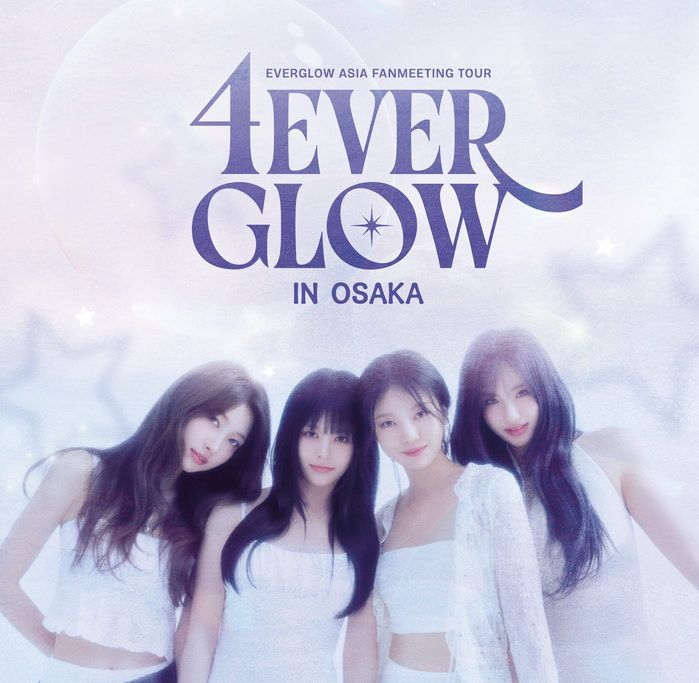
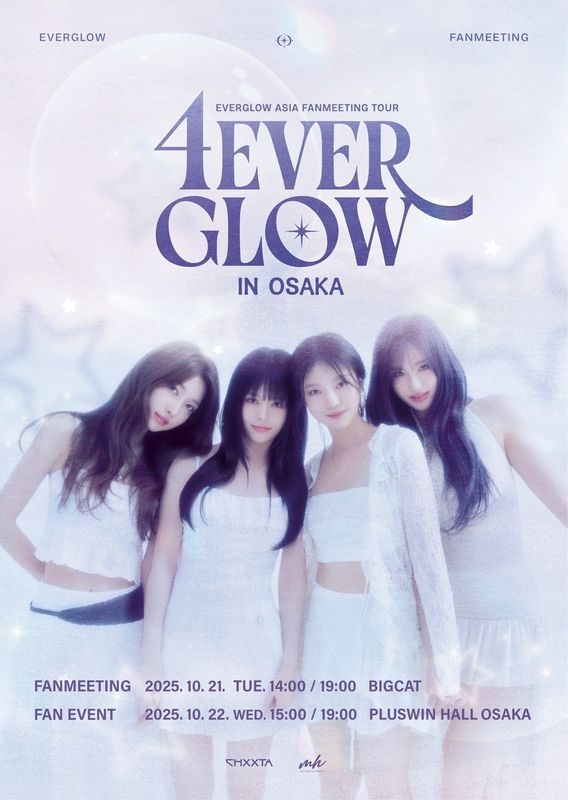
아카이브: JINHO Dear. you·EVERGLOW 포스터 교체 및 날짜·장소 보정, EASTSHINE 2025 SPECIAL LIVE OSAKA 추가; ?v=20261128q
Claude-Session: https://claude.ai/code/session_01APSZDhuEs73eRN2Z5RkWZx

diff --git a/assets/js/data.js b/assets/js/data.js
@@ -1022,7 +1022,7 @@ const PAST = [
   { key: "cho-byeong-kyu", artist: "CHO BYEONG KYU", title: "JAPAN FAN MEETING -Welcome to CAFÉ BK-", date: "2026.07.18 - 19", sort: "2026-07-18", year: "2026", venue: "PLUSWIN HALL OSAKA", poster: "assets/img/past/cho-byeong-kyu.jpg", url: "https://www.pluswin.net/news-1-1/chobyeongkyu-event" },
   { key: "zelo", artist: "ZELO", title: "FANCONCERT [COMIGO:NEXT CHAPTER] in Japan", date: "2026.07.04 - 05", sort: "2026-07-04", year: "2026", venue: "TIAT SKY HALL", poster: "assets/img/past/zelo.jpg", url: "https://www.pluswin.net/news-1-1/zelo" },
   { key: "wooseung", artist: "WOOSEUNG", title: "1st Fanmeeting in Osaka [MAY BE]", date: "2026.05.08 - 10", sort: "2026-05-08", year: "2026", venue: "PLUSWIN HALL OSAKA", poster: "assets/img/past/wooseung.jpg", url: "https://www.pluswin.net/news-1-1/wooseung" },
-  { key: "jinho-dear-you", artist: "JINHO", title: "FAN CONCERT 'Dear. you' in JAPAN", date: "2026.04.25 - 05.01", sort: "2026-04-25", year: "2026", venue: "PLUSWIN HALL OSAKA", poster: "assets/img/past/jinho-dear-you.jpg", url: "https://www.pluswin.net/news-1-1/jinho20260405" },
+  { key: "jinho-dear-you", artist: "JINHO", title: "FAN CONCERT 'Dear. you' in JAPAN", date: "2026.04.25 - 05.02", sort: "2026-04-25", year: "2026", venue: "TOKYO / OSAKA", poster: "assets/img/past/jinho-dear-you.jpg", url: "https://www.pluswin.net/news-1-1/jinho20260405" },
   { key: "lee-jinsol", artist: "LEE JINSOL", title: "'from. Sagittarius' RELEASE LIVE in JAPAN", date: "2026.04.22 - 26", sort: "2026-04-22", year: "2026", venue: "PLUSWIN HALL OSAKA", poster: "assets/img/past/lee-jinsol.jpg", url: "https://www.pluswin.net/news-1-1/jinsol" },
   { key: "klovers-2026-spring", series: "klovers", artist: "K-LOVERS FES", title: "2026 SPRING", date: "2026.04.18 - 19", sort: "2026-04-18", year: "2026", venue: "TEMPO HARBOR THEATER", poster: "assets/img/past/klovers-2026-spring.jpg", url: "https://www.pluswin.net/news-1-1/kloversfes" },
   { key: "eastshine", artist: "EASTSHINE", title: "JAPAN LIVE 2026", date: "2026.04.17 - 05.06", sort: "2026-04-17", year: "2026", venue: "OSAKA / TOKYO", poster: "assets/img/past/eastshine.jpg", url: "https://www.pluswin.net/news-1-1/eastshine-tour" },
@@ -1033,7 +1033,7 @@ const PAST = [
   { key: "hayeon", artist: "HAYEON", title: "The First Bloom in Osaka 2025", date: "2025.12.12 - 21", sort: "2025-12-12", year: "2025", venue: "PLUSWIN HALL OSAKA / VILLEBOA", poster: "assets/img/past/hayeon.jpg", url: "https://www.pluswin.net/news-1-1/hayeon-japanlive" },
   { key: "lim-seul-ong", artist: "LIM SEUL-ONG", title: "SOLO Fan Concert 'ONGBOARDING'", date: "2025.12.01 - 12.06", sort: "2025-12-01", year: "2025", venue: "TOKYO / OSAKA", poster: "assets/img/past/lim-seul-ong.jpg", url: "https://www.pluswin.net/news-1-1/ongboarding" },
   { key: "xin", artist: "X:IN", title: "JAPAN 1st SHOWCASE 2025 'READY X:IN'", date: "2025.10.25 - 29", sort: "2025-10-25", year: "2025", venue: "TOKYO / OSAKA", poster: "assets/img/past/xin.jpg", url: "https://www.pluswin.net/news-1-1/xin-event" },
-  { key: "everglow", artist: "EVERGLOW", title: "ASIA FANMEETING TOUR: 4EVERGLOW IN OSAKA", date: "2025.10.21 - 22", sort: "2025-10-21", year: "2025", venue: "BIGCAT", poster: "assets/img/past/everglow.jpg", url: "https://www.pluswin.net/news-1-1/everglow-osaka2025" },
+  { key: "everglow", artist: "EVERGLOW", title: "ASIA FANMEETING TOUR: 4EVERGLOW IN OSAKA", date: "2025.10.21 - 22", sort: "2025-10-21", year: "2025", venue: "BIGCAT / PLUSWIN HALL OSAKA", poster: "assets/img/past/everglow.jpg", url: "https://www.pluswin.net/news-1-1/everglow-osaka2025" },
   { key: "2face-tour", artist: "2FACE", title: "LIVE TOUR 2025 ~LOVE TONIGHT~", date: "2025.09.14 - 15", sort: "2025-09-14", year: "2025", venue: "PLUSWIN HALL OSAKA", poster: "assets/img/past/2face-tour.jpg", url: "https://www.pluswin.net/news-1-1/2face-202504" },
   { key: "unicode-aing", artist: "UNICODE", title: "LIVE TOUR 2025 'Aing'", date: "2025.09.07 - 26", sort: "2025-09-07", year: "2025", venue: "OSAKA", poster: "assets/img/past/unicode-aing.jpg", url: "https://www.pluswin.net/news-1-1/unicode-event" },
   { key: "crazangel", artist: "CRAZANGEL", title: "JAPAN PRE-DEBUT SHOWCASE", date: "2025.08.30", sort: "2025-08-30", year: "2025", venue: "PLUSWIN HALL OSAKA", poster: "assets/img/past/crazangel.jpg", url: "https://www.pluswin.net/news-1-1/2025-crazangel-japanlive" },
@@ -1092,6 +1092,7 @@ const PAST = [
   { key: "kim-kwon-2026", artist: "KIM KWON", title: "TOKYO TAKE 2", date: "2026.11.21", sort: "2026-11-21", year: "2026", venue: "GE theater HARAJUKU", poster: "assets/img/past/kim-kwon-2026.jpg" },
   { key: "riri-2025", artist: "RiRi", title: "FANMEETING IN OSAKA READY!", date: "2025.12.27 - 28", sort: "2025-12-27", year: "2025", venue: "OSAKA", poster: "assets/img/past/riri-2025.jpg" },
   { key: "3way-2024", artist: "3WAY", title: "F1RST '3WAY PROJECT' in JAPAN", date: "2024.03.23", sort: "2024-03-23", year: "2024", venue: "PLUSWIN HALL MINAMIHORIE", poster: "assets/img/past/3way-2024.jpg" },
+  { key: "eastshine-2025", artist: "EASTSHINE", title: "2025 SPECIAL LIVE OSAKA", date: "2025.08.29 - 09.07", sort: "2025-08-29", year: "2025", venue: "PLUSWIN HALL VILLEBOA / MINAMIHORIE", poster: "assets/img/past/eastshine-2025.jpg" },
 ];
 
 const GUIDES = [

diff --git a/index.html b/index.html
@@ -26,8 +26,8 @@ gtag("js",new Date());gtag("config","G-80L7MBMH2J");</script>
 <meta property="og:image" content="https://hkw8102.github.io/-/assets/img/hall/stage-full.jpg">
 <link rel="icon" href="assets/favicon.png" sizes="64x64" type="image/png">
 <link rel="apple-touch-icon" href="assets/favicon-180.png">
-<link rel="preload" as="image" href="assets/img/hall/audience-live.jpg?v=20261128p">
-<link rel="stylesheet" href="styles.css?v=20261128p">
+<link rel="preload" as="image" href="assets/img/hall/audience-live.jpg?v=20261128q">
+<link rel="stylesheet" href="styles.css?v=20261128q">
 </head>
 <body data-page="home">
 <div class="grain" aria-hidden="true"></div>
@@ -75,7 +75,7 @@ gtag("js",new Date());gtag("config","G-80L7MBMH2J");</script>
   <!-- ============ HERO ============ -->
   <section class="hero hero-compact">
     <div class="hero-bg" aria-hidden="true">
-      <img src="assets/img/hall/audience-live.jpg?v=20261128p" alt="" fetchpriority="high">
+      <img src="assets/img/hall/audience-live.jpg?v=20261128q" alt="" fetchpriority="high">
     </div>
     <div class="hero-veil" aria-hidden="true"></div>
     <div class="wrap hero-inner">
@@ -347,10 +347,10 @@ gtag("js",new Date());gtag("config","G-80L7MBMH2J");</script>
   </aside>
 </div>
 
-<script src="assets/js/analytics.js?v=20261128p"></script>
-<script src="assets/js/theme.js?v=20261128p"></script>
-<script src="assets/js/data.js?v=20261128p"></script>
-<script src="assets/js/i18n-extra.js?v=20261128p"></script>
-<script src="assets/js/site.js?v=20261128p"></script>
+<script src="assets/js/analytics.js?v=20261128q"></script>
+<script src="assets/js/theme.js?v=20261128q"></script>
+<script src="assets/js/data.js?v=20261128q"></script>
+<script src="assets/js/i18n-extra.js?v=20261128q"></script>
+<script src="assets/js/site.js?v=20261128q"></script>
 </body>
 </html>

diff --git a/hall.html b/hall.html
@@ -26,8 +26,8 @@ gtag("js",new Date());gtag("config","G-80L7MBMH2J");</script>
 <meta property="og:image" content="https://hkw8102.github.io/-/assets/img/hall/stage-full.jpg">
 <link rel="icon" href="assets/favicon.png" sizes="64x64" type="image/png">
 <link rel="apple-touch-icon" href="assets/favicon-180.png">
-<link rel="stylesheet" href="styles.css?v=20261128p">
-<link rel="stylesheet" href="assets/css/estimate.css?v=20261128p">
+<link rel="stylesheet" href="styles.css?v=20261128q">
+<link rel="stylesheet" href="assets/css/estimate.css?v=20261128q">
 </head>
 <body data-page="hall">
 <div class="grain" aria-hidden="true"></div>
@@ -1736,14 +1736,14 @@ gtag("js",new Date());gtag("config","G-80L7MBMH2J");</script>
   </figure>
 </div>
 
-<script src="assets/js/analytics.js?v=20261128p"></script>
-<script src="assets/js/theme.js?v=20261128p"></script>
-<script src="assets/js/data.js?v=20261128p"></script>
-<script src="assets/js/i18n-extra.js?v=20261128p"></script>
-<script src="assets/js/hall-extras.js?v=20261128p"></script>
-<script src="assets/js/gallery.js?v=20261128p"></script>
-<script src="assets/js/fp-zoom.js?v=20261128p"></script>
-<script src="assets/js/site.js?v=20261128p"></script>
-<script src="assets/js/fields.js?v=20261128p"></script>
+<script src="assets/js/analytics.js?v=20261128q"></script>
+<script src="assets/js/theme.js?v=20261128q"></script>
+<script src="assets/js/data.js?v=20261128q"></script>
+<script src="assets/js/i18n-extra.js?v=20261128q"></script>
+<script src="assets/js/hall-extras.js?v=20261128q"></script>
+<script src="assets/js/gallery.js?v=20261128q"></script>
+<script src="assets/js/fp-zoom.js?v=20261128q"></script>
+<script src="assets/js/site.js?v=20261128q"></script>
+<script src="assets/js/fields.js?v=20261128q"></script>
 </body>
 </html>

diff --git a/estimate.html b/estimate.html
@@ -26,8 +26,8 @@ gtag("js",new Date());gtag("config","G-80L7MBMH2J");</script>
 <meta property="og:image" content="https://hkw8102.github.io/-/assets/img/hall/stage-full.jpg">
 <link rel="icon" href="assets/favicon.png" sizes="64x64" type="image/png">
 <link rel="apple-touch-icon" href="assets/favicon-180.png">
-<link rel="stylesheet" href="styles.css?v=20261128p">
-<link rel="stylesheet" href="assets/css/estimate.css?v=20261128p">
+<link rel="stylesheet" href="styles.css?v=20261128q">
+<link rel="stylesheet" href="assets/css/estimate.css?v=20261128q">
 </head>
 <body data-page="estimate">
 <div class="grain" aria-hidden="true"></div>
@@ -604,12 +604,12 @@ gtag("js",new Date());gtag("config","G-80L7MBMH2J");</script>
   </div>
 </div>
 
-<script src="assets/js/analytics.js?v=20261128p"></script>
-<script src="assets/js/theme.js?v=20261128p"></script>
-<script src="assets/js/data.js?v=20261128p"></script>
-<script src="assets/js/i18n-extra.js?v=20261128p"></script>
-<script src="assets/js/site.js?v=20261128p"></script>
-<script src="assets/js/estimate.js?v=20261128p"></script>
-<script src="assets/js/fields.js?v=20261128p"></script>
+<script src="assets/js/analytics.js?v=20261128q"></script>
+<script src="assets/js/theme.js?v=20261128q"></script>
+<script src="assets/js/data.js?v=20261128q"></script>
+<script src="assets/js/i18n-extra.js?v=20261128q"></script>
+<script src="assets/js/site.js?v=20261128q"></script>
+<script src="assets/js/estimate.js?v=20261128q"></script>
+<script src="assets/js/fields.js?v=20261128q"></script>
 </body>
 </html>

diff --git a/stand.html b/stand.html
@@ -26,7 +26,7 @@ gtag("js",new Date());gtag("config","G-80L7MBMH2J");</script>
 <meta property="og:image" content="https://hkw8102.github.io/-/assets/img/hall/stage-full.jpg">
 <link rel="icon" href="assets/favicon.png" sizes="64x64" type="image/png">
 <link rel="apple-touch-icon" href="assets/favicon-180.png">
-<link rel="stylesheet" href="styles.css?v=20261128p">
+<link rel="stylesheet" href="styles.css?v=20261128q">
 </head>
 <body data-page="stand">
 <div class="grain" aria-hidden="true"></div>
@@ -271,11 +271,11 @@ gtag("js",new Date());gtag("config","G-80L7MBMH2J");</script>
   </div>
 </footer>
 
-<script src="assets/js/analytics.js?v=20261128p"></script>
-<script src="assets/js/theme.js?v=20261128p"></script>
-<script src="assets/js/data.js?v=20261128p"></script>
-<script src="assets/js/i18n-extra.js?v=20261128p"></script>
-<script src="assets/js/site.js?v=20261128p"></script>
-<script src="assets/js/fields.js?v=20261128p"></script>
+<script src="assets/js/analytics.js?v=20261128q"></script>
+<script src="assets/js/theme.js?v=20261128q"></script>
+<script src="assets/js/data.js?v=20261128q"></script>
+<script src="assets/js/i18n-extra.js?v=20261128q"></script>
+<script src="assets/js/site.js?v=20261128q"></script>
+<script src="assets/js/fields.js?v=20261128q"></script>
 </body>
 </html>

diff --git a/archive.html b/archive.html
@@ -26,7 +26,7 @@ gtag("js",new Date());gtag("config","G-80L7MBMH2J");</script>
 <meta property="og:image" content="https://hkw8102.github.io/-/assets/img/hall/stage-full.jpg">
 <link rel="icon" href="assets/favicon.png" sizes="64x64" type="image/png">
 <link rel="apple-touch-icon" href="assets/favicon-180.png">
-<link rel="stylesheet" href="styles.css?v=20261128p">
+<link rel="stylesheet" href="styles.css?v=20261128q">
 </head>
 <body data-page="archive">
 <div class="grain" aria-hidden="true"></div>
@@ -148,10 +148,10 @@ gtag("js",new Date());gtag("config","G-80L7MBMH2J");</script>
   </div>
 </footer>
 
-<script src="assets/js/analytics.js?v=20261128p"></script>
-<script src="assets/js/theme.js?v=20261128p"></script>
-<script src="assets/js/data.js?v=20261128p"></script>
-<script src="assets/js/i18n-extra.js?v=20261128p"></script>
-<script src="assets/js/site.js?v=20261128p"></script>
+<script src="assets/js/analytics.js?v=20261128q"></script>
+<script src="assets/js/theme.js?v=20261128q"></script>
+<script src="assets/js/data.js?v=20261128q"></script>
+<script src="assets/js/i18n-extra.js?v=20261128q"></script>
+<script src="assets/js/site.js?v=20261128q"></script>
 </body>
 </html>

diff --git a/klovers.html b/klovers.html
@@ -26,7 +26,7 @@ gtag("js",new Date());gtag("config","G-80L7MBMH2J");</script>
 <meta property="og:image" content="https://hkw8102.github.io/-/assets/img/hall/stage-full.jpg">
 <link rel="icon" href="assets/favicon.png" sizes="64x64" type="image/png">
 <link rel="apple-touch-icon" href="assets/favicon-180.png">
-<link rel="stylesheet" href="styles.css?v=20261128p">
+<link rel="stylesheet" href="styles.css?v=20261128q">
 </head>
 <body data-page="klovers">
 <div class="grain" aria-hidden="true"></div>
@@ -145,10 +145,10 @@ gtag("js",new Date());gtag("config","G-80L7MBMH2J");</script>
   </div>
 </footer>
 
-<script src="assets/js/analytics.js?v=20261128p"></script>
-<script src="assets/js/theme.js?v=20261128p"></script>
-<script src="assets/js/data.js?v=20261128p"></script>
-<script src="assets/js/i18n-extra.js?v=20261128p"></script>
-<script src="assets/js/site.js?v=20261128p"></script>
+<script src="assets/js/analytics.js?v=20261128q"></script>
+<script src="assets/js/theme.js?v=20261128q"></script>
+<script src="assets/js/data.js?v=20261128q"></script>
+<script src="assets/js/i18n-extra.js?v=20261128q"></script>
+<script src="assets/js/site.js?v=20261128q"></script>
 </body>
 </html>

diff --git a/privacy.html b/privacy.html
@@ -26,7 +26,7 @@ gtag("js",new Date());gtag("config","G-80L7MBMH2J");</script>
 <meta property="og:image" content="https://hkw8102.github.io/-/assets/img/hall/stage-full.jpg">
 <link rel="icon" href="assets/favicon.png" sizes="64x64" type="image/png">
 <link rel="apple-touch-icon" href="assets/favicon-180.png">
-<link rel="stylesheet" href="styles.css?v=20261128p">
+<link rel="stylesheet" href="styles.css?v=20261128q">
 </head>
 <body data-page="privacy">
 <div class="grain" aria-hidden="true"></div>
@@ -210,10 +210,10 @@ gtag("js",new Date());gtag("config","G-80L7MBMH2J");</script>
   </div>
 </footer>
 
-<script src="assets/js/analytics.js?v=20261128p"></script>
-<script src="assets/js/theme.js?v=20261128p"></script>
-<script src="assets/js/data.js?v=20261128p"></script>
-<script src="assets/js/i18n-extra.js?v=20261128p"></script>
-<script src="assets/js/site.js?v=20261128p"></script>
+<script src="assets/js/analytics.js?v=20261128q"></script>
+<script src="assets/js/theme.js?v=20261128q"></script>
+<script src="assets/js/data.js?v=20261128q"></script>
+<script src="assets/js/i18n-extra.js?v=20261128q"></script>
+<script src="assets/js/site.js?v=20261128q"></script>
 </body>
 </html>

diff --git a/assets/js/site.js b/assets/js/site.js
@@ -36,7 +36,7 @@ const esc = (s) =>
 
 /* every poster file carries the build tag, so a browser that kept an older
    copy of a poster (the earlier cropped ones) asks for the new file instead */
-const ASSET_V = "20261128p";
+const ASSET_V = "20261128q";
 const vurl = (u) => (u ? u + (u.indexOf("?") === -1 ? "?" : "&") + "v=" + ASSET_V : u);
 
 function monthName(m) {
